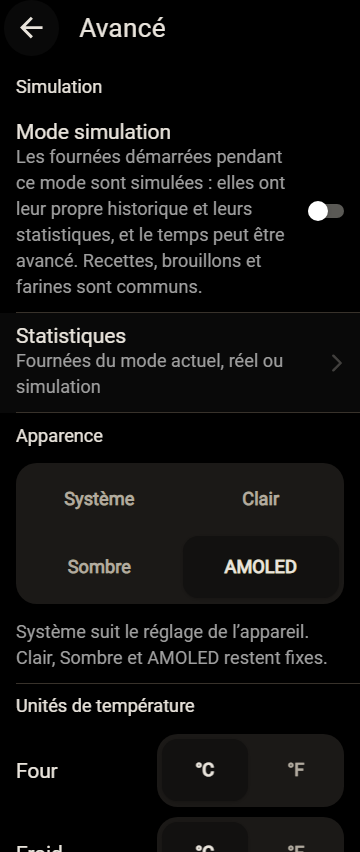
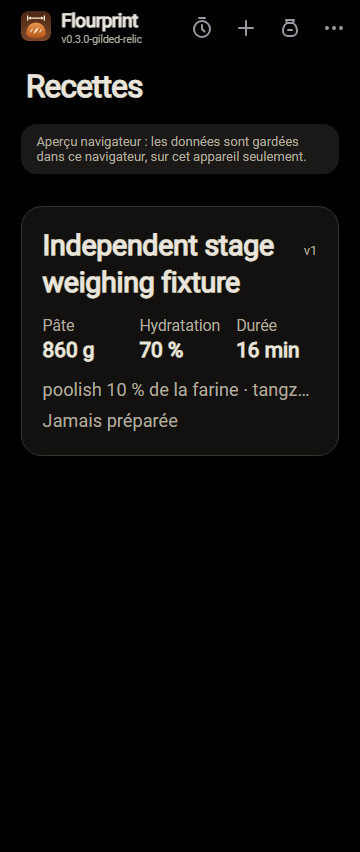
Correct library captures after routed view readiness check

diff --git a/ui-conformity-133-app-5bcca71/index.html b/ui-conformity-133-app-5bcca71/index.html
@@ -1,1 +1,1 @@
-<!doctype html><html lang="en"><meta charset="utf-8"><meta name="viewport" content="width=device-width,initial-scale=1"><title>Frozen mockup / application comparison</title><style>body{font:16px system-ui;margin:0;background:#171410;color:#f7f0e6}main{max-width:1100px;margin:auto;padding:18px}a{color:#ffb66b}nav{display:flex;flex-wrap:wrap;gap:16px;line-height:1.7}h1{font-size:1.35rem}label{display:flex;flex-direction:column;gap:5px}form{display:flex;flex-wrap:wrap;gap:12px;margin:20px 0}select{min-height:44px;border-radius:8px;background:#302a22;color:inherit;padding:8px;border:1px solid #85765f}.grid{display:grid;grid-template-columns:1fr 1fr;gap:12px}figure{margin:0;min-width:0}figcaption{font-weight:600;margin:8px 0}img{width:100%;max-width:440px;height:auto;display:block;border:1px solid #746550;border-radius:10px}p{line-height:1.5}.meta{overflow-wrap:anywhere;color:#c9bba8;font-size:.9rem}#missing{padding:20px;border:1px dashed #85765f;border-radius:10px}</style><main id="top"><nav><a href="https://pr-207.flourprint-aristotelesqc.pages.dev">Interactive application</a><a href="https://aristotelesqc.github.io/Flourprint/review-2026-10-24-audit-corrections/mockup.html?screen=recipe&recipe=shokupan&nav=A&lang=fr&theme=light&width=393&scale=100">Interactive frozen reference</a><a href="https://github.com/Aristotelesqc/Flourprint/pull/182">UI integration PR182</a></nav><h1>Frozen #133 reference / current application</h1><p class="meta">Reference e7aaad3d433f64e7c436dfc62ca5320cd5e36fee. Application5bcca71b3bb067738cd9326ad86c31f4aa52342b, build0.3.0-pr.207.612+5bcca71. FR Light393/100 and AMOLED360/130. Actual production application screens captured through synthetic import, navigation, Edit, Planning and Start actions.</p><p><strong>Different fixtures and preparation stages:</strong> reference Shokupan versus an independent synthetic stage recipe. Compare structure, actions and presentation; ingredient names, quantities, timings and stage-specific instructions are not like-for-like. The reference has known defects: current requirements supersede it. This comparison is evidence for correcting the application, not a new mockup round or a pass verdict.</p><nav><a href="#library-light">Library light</a> <a href="#recipe-light">Recipe light</a> <a href="#edit-light">Edit light</a> <a href="#planning-light">Planning light</a> <a href="#preparation-light">Preparation light</a> <a href="#library-amoled">Library amoled</a> <a href="#recipe-amoled">Recipe amoled</a> <a href="#edit-amoled">Edit amoled</a> <a href="#planning-amoled">Planning amoled</a> <a href="#preparation-amoled">Preparation amoled</a></nav><section id="library-light"><h2>Library · FR · LIGHT · 393-100</h2><div class="grid"><figure><figcaption>Reference #133 e7aaad3</figcaption><a href="reference-audit-current-library-fr-light-393-100.png"><img loading="lazy" src="reference-audit-current-library-fr-light-393-100.png" alt="Reference #133 e7aaad3 library light 393-100"></a></figure><figure><figcaption>Application #207 5bcca71</figcaption><a href="app-library-fr-light-393-100.png"><img loading="lazy" src="app-library-fr-light-393-100.png" alt="Application #207 5bcca71 library light 393-100"></a></figure></div><p><a href="#top">Back to contents</a></p></section><section id="recipe-light"><h2>Recipe · FR · LIGHT · 393-100</h2><div class="grid"><figure><figcaption>Reference #133 e7aaad3</figcaption><a href="reference-audit-current-recipe-fr-light-393-100.png"><img loading="lazy" src="reference-audit-current-recipe-fr-light-393-100.png" alt="Reference #133 e7aaad3 recipe light 393-100"></a></figure><figure><figcaption>Application #207 5bcca71</figcaption><a href="app-recipe-fr-light-393-100.png"><img loading="lazy" src="app-recipe-fr-light-393-100.png" alt="Application #207 5bcca71 recipe light 393-100"></a></figure></div><p><a href="#top">Back to contents</a></p></section><section id="edit-light"><h2>Edit · FR · LIGHT · 393-100</h2><div class="grid"><figure><figcaption>Reference #133 e7aaad3</figcaption><a href="reference-audit-current-edit-fr-light-393-100.png"><img loading="lazy" src="reference-audit-current-edit-fr-light-393-100.png" alt="Reference #133 e7aaad3 edit light 393-100"></a></figure><figure><figcaption>Application #207 5bcca71</figcaption><a href="app-edit-fr-light-393-100.png"><img loading="lazy" src="app-edit-fr-light-393-100.png" alt="Application #207 5bcca71 edit light 393-100"></a></figure></div><p><a href="#top">Back to contents</a></p></section><section id="planning-light"><h2>Planning · FR · LIGHT · 393-100</h2><div class="grid"><figure><figcaption>Reference #133 e7aaad3</figcaption><a href="reference-audit-current-planning-fr-light-393-100.png"><img loading="lazy" src="reference-audit-current-planning-fr-light-393-100.png" alt="Reference #133 e7aaad3 planning light 393-100"></a></figure><figure><figcaption>Application #207 5bcca71</figcaption><a href="app-planning-fr-light-393-100.png"><img loading="lazy" src="app-planning-fr-light-393-100.png" alt="Application #207 5bcca71 planning light 393-100"></a></figure></div><p><a href="#top">Back to contents</a></p></section><section id="preparation-light"><h2>Preparation · FR · LIGHT · 393-100</h2><div class="grid"><figure><figcaption>Reference #133 e7aaad3</figcaption><a href="reference-audit-current-preparation-fr-light-393-100.png"><img loading="lazy" src="reference-audit-current-preparation-fr-light-393-100.png" alt="Reference #133 e7aaad3 preparation light 393-100"></a></figure><figure><figcaption>Application #207 5bcca71</figcaption><a href="app-preparation-fr-light-393-100.png"><img loading="lazy" src="app-preparation-fr-light-393-100.png" alt="Application #207 5bcca71 preparation light 393-100"></a></figure></div><p><a href="#top">Back to contents</a></p></section><section id="library-amoled"><h2>Library · FR · AMOLED · 360-130</h2><div class="grid"><figure><figcaption>Reference #133 e7aaad3</figcaption><a href="reference-audit-current-library-fr-amoled-360-130.png"><img loading="lazy" src="reference-audit-current-library-fr-amoled-360-130.png" alt="Reference #133 e7aaad3 library amoled 360-130"></a></figure><figure><figcaption>Application #207 5bcca71</figcaption><a href="app-library-fr-amoled-360-130.png"><img loading="lazy" src="app-library-fr-amoled-360-130.png" alt="Application #207 5bcca71 library amoled 360-130"></a></figure></div><p><a href="#top">Back to contents</a></p></section><section id="recipe-amoled"><h2>Recipe · FR · AMOLED · 360-130</h2><div class="grid"><figure><figcaption>Reference #133 e7aaad3</figcaption><a href="reference-audit-current-recipe-fr-amoled-360-130.png"><img loading="lazy" src="reference-audit-current-recipe-fr-amoled-360-130.png" alt="Reference #133 e7aaad3 recipe amoled 360-130"></a></figure><figure><figcaption>Application #207 5bcca71</figcaption><a href="app-recipe-fr-amoled-360-130.png"><img loading="lazy" src="app-recipe-fr-amoled-360-130.png" alt="Application #207 5bcca71 recipe amoled 360-130"></a></figure></div><p><a href="#top">Back to contents</a></p></section><section id="edit-amoled"><h2>Edit · FR · AMOLED · 360-130</h2><div class="grid"><figure><figcaption>Reference #133 e7aaad3</figcaption><a href="reference-audit-current-edit-fr-amoled-360-130.png"><img loading="lazy" src="reference-audit-current-edit-fr-amoled-360-130.png" alt="Reference #133 e7aaad3 edit amoled 360-130"></a></figure><figure><figcaption>Application #207 5bcca71</figcaption><a href="app-edit-fr-amoled-360-130.png"><img loading="lazy" src="app-edit-fr-amoled-360-130.png" alt="Application #207 5bcca71 edit amoled 360-130"></a></figure></div><p><a href="#top">Back to contents</a></p></section><section id="planning-amoled"><h2>Planning · FR · AMOLED · 360-130</h2><div class="grid"><figure><figcaption>Reference #133 e7aaad3</figcaption><a href="reference-audit-current-planning-fr-amoled-360-130.png"><img loading="lazy" src="reference-audit-current-planning-fr-amoled-360-130.png" alt="Reference #133 e7aaad3 planning amoled 360-130"></a></figure><figure><figcaption>Application #207 5bcca71</figcaption><a href="app-planning-fr-amoled-360-130.png"><img loading="lazy" src="app-planning-fr-amoled-360-130.png" alt="Application #207 5bcca71 planning amoled 360-130"></a></figure></div><p><a href="#top">Back to contents</a></p></section><section id="preparation-amoled"><h2>Preparation · FR · AMOLED · 360-130</h2><div class="grid"><figure><figcaption>Reference #133 e7aaad3</figcaption><a href="reference-audit-current-preparation-fr-amoled-360-130.png"><img loading="lazy" src="reference-audit-current-preparation-fr-amoled-360-130.png" alt="Reference #133 e7aaad3 preparation amoled 360-130"></a></figure><figure><figcaption>Application #207 5bcca71</figcaption><a href="app-preparation-fr-amoled-360-130.png"><img loading="lazy" src="app-preparation-fr-amoled-360-130.png" alt="Application #207 5bcca71 preparation amoled 360-130"></a></figure></div><p><a href="#top">Back to contents</a></p></section><p><a href="provenance.json">Image hashes and revisions</a></p></main></html>
+<!doctype html><html lang="en"><meta charset="utf-8"><meta name="viewport" content="width=device-width,initial-scale=1"><title>Frozen mockup / application comparison</title><style>body{font:16px system-ui;margin:0;background:#171410;color:#f7f0e6}main{max-width:1100px;margin:auto;padding:18px}a{color:#ffb66b}nav{display:flex;flex-wrap:wrap;gap:16px;line-height:1.7}h1{font-size:1.35rem}label{display:flex;flex-direction:column;gap:5px}form{display:flex;flex-wrap:wrap;gap:12px;margin:20px 0}select{min-height:44px;border-radius:8px;background:#302a22;color:inherit;padding:8px;border:1px solid #85765f}.grid{display:grid;grid-template-columns:1fr 1fr;gap:12px}figure{margin:0;min-width:0}figcaption{font-weight:600;margin:8px 0}img{width:100%;max-width:440px;height:auto;display:block;border:1px solid #746550;border-radius:10px}p{line-height:1.5}.meta{overflow-wrap:anywhere;color:#c9bba8;font-size:.9rem}#missing{padding:20px;border:1px dashed #85765f;border-radius:10px}</style><main id="top"><nav><a href="https://pr-207.flourprint-aristotelesqc.pages.dev">Interactive application</a><a href="https://aristotelesqc.github.io/Flourprint/review-2026-10-24-audit-corrections/mockup.html?screen=recipe&recipe=shokupan&nav=A&lang=fr&theme=light&width=393&scale=100">Interactive frozen reference</a><a href="https://github.com/Aristotelesqc/Flourprint/pull/182">UI integration PR182</a></nav><h1>Frozen #133 reference / current application</h1><p class="meta">Library frames were corrected after a capture-transition mismatch. Reviewer B identified that evidence gap and did not inspect the replacement frames; the caller did. The other18 frames are unchanged.</p><p class="meta">Reference e7aaad3d433f64e7c436dfc62ca5320cd5e36fee. Application5bcca71b3bb067738cd9326ad86c31f4aa52342b, build0.3.0-pr.207.612+5bcca71. FR Light393/100 and AMOLED360/130. Actual production application screens captured through synthetic import, navigation, Edit, Planning and Start actions.</p><p><strong>Different fixtures and preparation stages:</strong> reference Shokupan versus an independent synthetic stage recipe. Compare structure, actions and presentation; ingredient names, quantities, timings and stage-specific instructions are not like-for-like. The reference has known defects: current requirements supersede it. This comparison is evidence for correcting the application, not a new mockup round or a pass verdict.</p><nav><a href="#library-light">Library light</a> <a href="#recipe-light">Recipe light</a> <a href="#edit-light">Edit light</a> <a href="#planning-light">Planning light</a> <a href="#preparation-light">Preparation light</a> <a href="#library-amoled">Library amoled</a> <a href="#recipe-amoled">Recipe amoled</a> <a href="#edit-amoled">Edit amoled</a> <a href="#planning-amoled">Planning amoled</a> <a href="#preparation-amoled">Preparation amoled</a></nav><section id="library-light"><h2>Library Â· FR Â· LIGHT Â· 393-100</h2><div class="grid"><figure><figcaption>Reference #133 e7aaad3</figcaption><a href="reference-audit-current-library-fr-light-393-100.png"><img loading="lazy" src="reference-audit-current-library-fr-light-393-100.png" alt="Reference #133 e7aaad3 library light 393-100"></a></figure><figure><figcaption>Application #207 5bcca71</figcaption><a href="app-library-fr-light-393-100.png"><img loading="lazy" src="app-library-fr-light-393-100.png" alt="Application #207 5bcca71 library light 393-100"></a></figure></div><p><a href="#top">Back to contents</a></p></section><section id="recipe-light"><h2>Recipe Â· FR Â· LIGHT Â· 393-100</h2><div class="grid"><figure><figcaption>Reference #133 e7aaad3</figcaption><a href="reference-audit-current-recipe-fr-light-393-100.png"><img loading="lazy" src="reference-audit-current-recipe-fr-light-393-100.png" alt="Reference #133 e7aaad3 recipe light 393-100"></a></figure><figure><figcaption>Application #207 5bcca71</figcaption><a href="app-recipe-fr-light-393-100.png"><img loading="lazy" src="app-recipe-fr-light-393-100.png" alt="Application #207 5bcca71 recipe light 393-100"></a></figure></div><p><a href="#top">Back to contents</a></p></section><section id="edit-light"><h2>Edit Â· FR Â· LIGHT Â· 393-100</h2><div class="grid"><figure><figcaption>Reference #133 e7aaad3</figcaption><a href="reference-audit-current-edit-fr-light-393-100.png"><img loading="lazy" src="reference-audit-current-edit-fr-light-393-100.png" alt="Reference #133 e7aaad3 edit light 393-100"></a></figure><figure><figcaption>Application #207 5bcca71</figcaption><a href="app-edit-fr-light-393-100.png"><img loading="lazy" src="app-edit-fr-light-393-100.png" alt="Application #207 5bcca71 edit light 393-100"></a></figure></div><p><a href="#top">Back to contents</a></p></section><section id="planning-light"><h2>Planning Â· FR Â· LIGHT Â· 393-100</h2><div class="grid"><figure><figcaption>Reference #133 e7aaad3</figcaption><a href="reference-audit-current-planning-fr-light-393-100.png"><img loading="lazy" src="reference-audit-current-planning-fr-light-393-100.png" alt="Reference #133 e7aaad3 planning light 393-100"></a></figure><figure><figcaption>Application #207 5bcca71</figcaption><a href="app-planning-fr-light-393-100.png"><img loading="lazy" src="app-planning-fr-light-393-100.png" alt="Application #207 5bcca71 planning light 393-100"></a></figure></div><p><a href="#top">Back to contents</a></p></section><section id="preparation-light"><h2>Preparation Â· FR Â· LIGHT Â· 393-100</h2><div class="grid"><figure><figcaption>Reference #133 e7aaad3</figcaption><a href="reference-audit-current-preparation-fr-light-393-100.png"><img loading="lazy" src="reference-audit-current-preparation-fr-light-393-100.png" alt="Reference #133 e7aaad3 preparation light 393-100"></a></figure><figure><figcaption>Application #207 5bcca71</figcaption><a href="app-preparation-fr-light-393-100.png"><img loading="lazy" src="app-preparation-fr-light-393-100.png" alt="Application #207 5bcca71 preparation light 393-100"></a></figure></div><p><a href="#top">Back to contents</a></p></section><section id="library-amoled"><h2>Library Â· FR Â· AMOLED Â· 360-130</h2><div class="grid"><figure><figcaption>Reference #133 e7aaad3</figcaption><a href="reference-audit-current-library-fr-amoled-360-130.png"><img loading="lazy" src="reference-audit-current-library-fr-amoled-360-130.png" alt="Reference #133 e7aaad3 library amoled 360-130"></a></figure><figure><figcaption>Application #207 5bcca71</figcaption><a href="app-library-fr-amoled-360-130.png"><img loading="lazy" src="app-library-fr-amoled-360-130.png" alt="Application #207 5bcca71 library amoled 360-130"></a></figure></div><p><a href="#top">Back to contents</a></p></section><section id="recipe-amoled"><h2>Recipe Â· FR Â· AMOLED Â· 360-130</h2><div class="grid"><figure><figcaption>Reference #133 e7aaad3</figcaption><a href="reference-audit-current-recipe-fr-amoled-360-130.png"><img loading="lazy" src="reference-audit-current-recipe-fr-amoled-360-130.png" alt="Reference #133 e7aaad3 recipe amoled 360-130"></a></figure><figure><figcaption>Application #207 5bcca71</figcaption><a href="app-recipe-fr-amoled-360-130.png"><img loading="lazy" src="app-recipe-fr-amoled-360-130.png" alt="Application #207 5bcca71 recipe amoled 360-130"></a></figure></div><p><a href="#top">Back to contents</a></p></section><section id="edit-amoled"><h2>Edit Â· FR Â· AMOLED Â· 360-130</h2><div class="grid"><figure><figcaption>Reference #133 e7aaad3</figcaption><a href="reference-audit-current-edit-fr-amoled-360-130.png"><img loading="lazy" src="reference-audit-current-edit-fr-amoled-360-130.png" alt="Reference #133 e7aaad3 edit amoled 360-130"></a></figure><figure><figcaption>Application #207 5bcca71</figcaption><a href="app-edit-fr-amoled-360-130.png"><img loading="lazy" src="app-edit-fr-amoled-360-130.png" alt="Application #207 5bcca71 edit amoled 360-130"></a></figure></div><p><a href="#top">Back to contents</a></p></section><section id="planning-amoled"><h2>Planning Â· FR Â· AMOLED Â· 360-130</h2><div class="grid"><figure><figcaption>Reference #133 e7aaad3</figcaption><a href="reference-audit-current-planning-fr-amoled-360-130.png"><img loading="lazy" src="reference-audit-current-planning-fr-amoled-360-130.png" alt="Reference #133 e7aaad3 planning amoled 360-130"></a></figure><figure><figcaption>Application #207 5bcca71</figcaption><a href="app-planning-fr-amoled-360-130.png"><img loading="lazy" src="app-planning-fr-amoled-360-130.png" alt="Application #207 5bcca71 planning amoled 360-130"></a></figure></div><p><a href="#top">Back to contents</a></p></section><section id="preparation-amoled"><h2>Preparation Â· FR Â· AMOLED Â· 360-130</h2><div class="grid"><figure><figcaption>Reference #133 e7aaad3</figcaption><a href="reference-audit-current-preparation-fr-amoled-360-130.png"><img loading="lazy" src="reference-audit-current-preparation-fr-amoled-360-130.png" alt="Reference #133 e7aaad3 preparation amoled 360-130"></a></figure><figure><figcaption>Application #207 5bcca71</figcaption><a href="app-preparation-fr-amoled-360-130.png"><img loading="lazy" src="app-preparation-fr-amoled-360-130.png" alt="Application #207 5bcca71 preparation amoled 360-130"></a></figure></div><p><a href="#top">Back to contents</a></p></section><p><a href="provenance.json">Image hashes and revisions</a></p></main></html>
